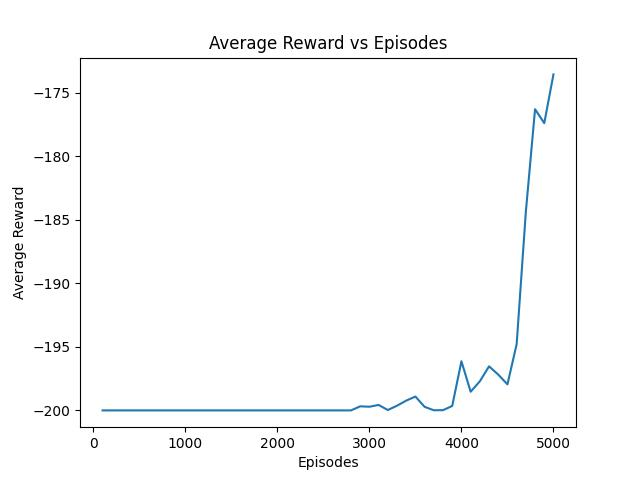
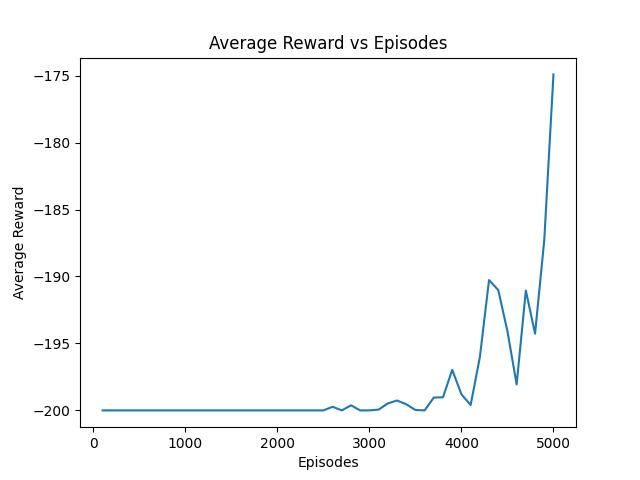
a

diff --git a/Ai/MountainCar/preferthese/mountaincarmess2.py b/Ai/MountainCar/preferthese/mountaincarmess2.py
@@ -1,20 +1,16 @@
-#https://gist.github.com/gkhayes/3d154e0505e31d6367be22ed3da2e955
 
-import tensorflow
+#from stable_baselines3 import PPO
 import numpy as np
 import gym
 import matplotlib.pyplot as plt
+
 
 # Import and initialize Mountain Car Environment
 env = gym.make('MountainCar-v0')
 env.reset()
 
-
-
 # Define Q-learning function
 def QLearning(env, learning, discount, epsilon, min_eps, episodes):
-
-    
     # Determine size of discretized state space
     num_states = (env.observation_space.high - env.observation_space.low)*\
                     np.array([10, 100])
@@ -45,10 +41,10 @@ def QLearning(env, learning, discount, epsilon, min_eps, episodes):
     
         while done != True:   
             # Render environment for last five episodes
-            if i >= (episodes - 5):
+            if i >= (episodes - 20):
                 env.render()
-                
-            # Determine next action - epsilon greedy strategy
+
+                 # Determine next action - epsilon greedy strategy
             if np.random.random() < 1 - epsilon:
                 action = np.argmax(Q[state_adj[0], state_adj[1]]) 
             else:
@@ -93,19 +89,20 @@ def QLearning(env, learning, discount, epsilon, min_eps, episodes):
             print('Episode {} Average Reward: {}'.format(i+1, ave_reward))
             
     env.close()
-    
+
     return ave_reward_list
 
 # Run Q-learning algorithm
-rewards = QLearning(env, 0.2, 0.9, 0.8, 0, 1000)
-
-
+rewards = QLearning(env, 0.2, 0, 0, 0, 2000)
 
 '''
+
 # Plot Rewards
 plt.plot(100*(np.arange(len(rewards)) + 1), rewards)
 plt.xlabel('Episodes')
 plt.ylabel('Average Reward')
 plt.title('Average Reward vs Episodes')
 plt.savefig('rewards.jpg')     
-plt.close()  '''
+plt.close() 
+
+'''

diff --git a/Ai/MountainCar/preferthese/mountaincarload.py b/Ai/MountainCar/preferthese/mountaincarload.py
@@ -1,12 +1,12 @@
 from stable_baselines3 import PPO
 import gym
 
-env = gym.make("CartPole-v1")
+env = gym.make("MountainCar-v0")
 #model = PPO(policy = "MlpPolicy",env =  env, verbose=1)
 #model.learn(total_timesteps=25000)
 
 #model.save("ppo_cartpole")  # saving the model to ppo_cartpole.zip
-model = PPO.load("ppo model")  # loading the model from ppo_cartpole.zip
+model = PPO.load("ppo_mountaincart")  # loading the model from ppo_cartpole.zip
 
 obs = env.reset()
 for i in range(1000):

diff --git a/Ai/MountainCar/preferthese/mountaincarmess.py b/Ai/MountainCar/preferthese/mountaincarmess.py
@@ -1,12 +1,15 @@
 
 from stable_baselines3 import PPO
+import numpy as np
 import gym
+import matplotlib as plt
 
 env = gym.make("MountainCar-v0")
+
 model = PPO(policy = "MlpPolicy",env =  env, verbose=1)
 model.learn(total_timesteps=25000)
 
-model.save("ppo_mountaincart")  # saving the model to ppo_cartpole.zip
+#model.save("ppo_mountaincart")  # saving the model to ppo_cartpole.zip
 model = PPO.load("ppo_mountaincart")  # loading the model from ppo_cartpole.zip
 
 obs = env.reset()

diff --git a/Ai/Other/Chatbot.py b/Ai/Other/Chatbot.py
@@ -23,6 +23,8 @@ while (user != "bye"):
         keywords.append(new_keyword)
         new_response = input("How should I respond to " + new_keyword + "? ")
         responses.append(new_response)
+        
+        
 
     user = input("Say something (or type bye to quit): ")
     user = user.lower()

diff --git a/Ai/Cartpole/cartpole1.py b/Ai/Cartpole/cartpole1.py
@@ -24,7 +24,7 @@ model = PPO('MlpPolicy', env, verbose=1)
 
 model.learn(total_timesteps=20000)
 
-model.save('ppo model')
+#model.save('ppo model')
 
 evaluate_policy(model, env, n_eval_episodes=10, render=True)
 
